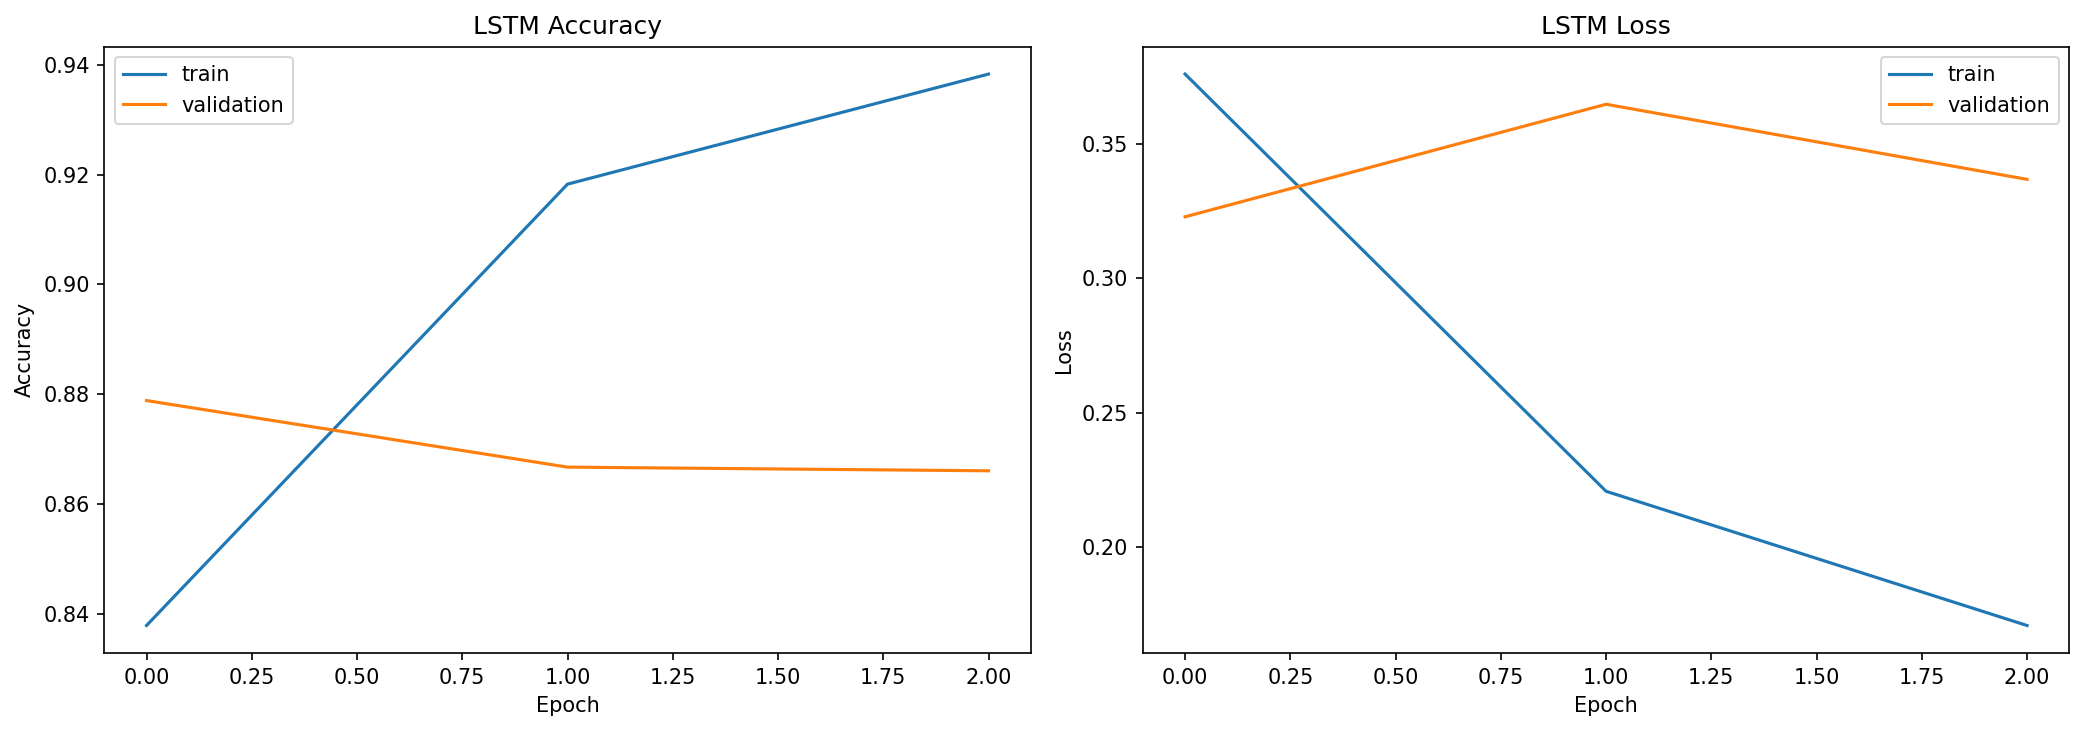
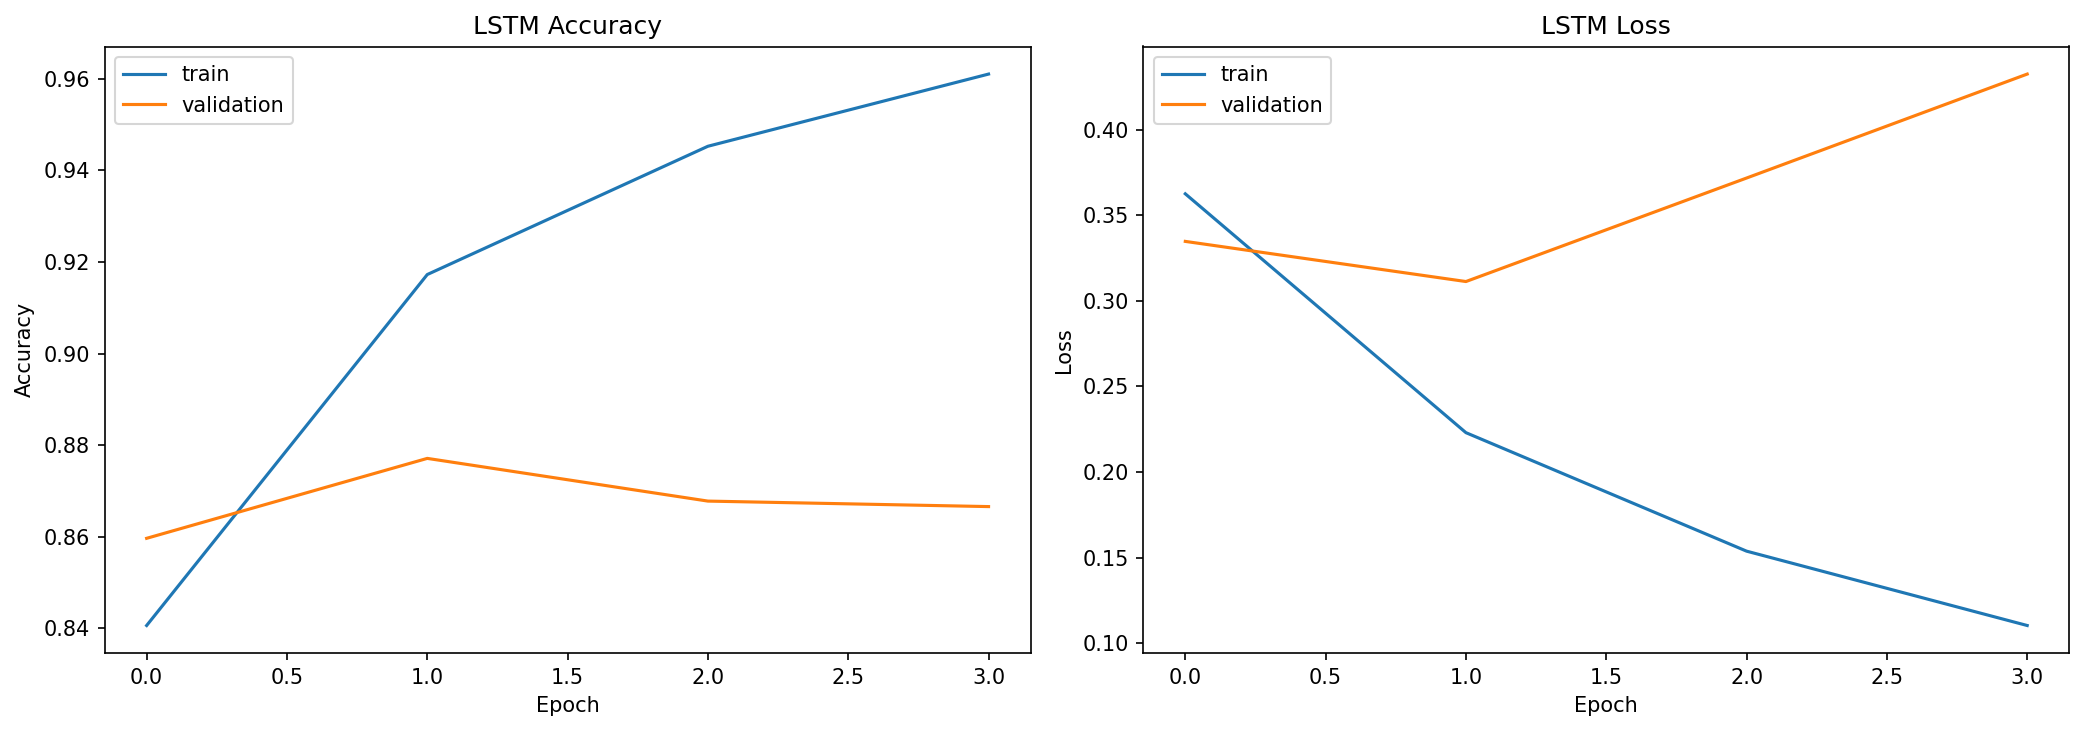
re-run and bug fix

diff --git a/src/dl_model.py b/src/dl_model.py
@@ -6,14 +6,25 @@ from typing import Dict, Iterable, Optional, Tuple
 import matplotlib.pyplot as plt
 import numpy as np
 import tensorflow as tf
+from keras import Sequential
+from keras.callbacks import EarlyStopping, ModelCheckpoint
+from keras.layers import Dense, Dropout, Embedding, Input, LSTM
+from keras.optimizers import Adam
 from sklearn.metrics import accuracy_score, f1_score, precision_score, recall_score
-from tensorflow.keras import Sequential
-from tensorflow.keras.callbacks import EarlyStopping, ModelCheckpoint
-from tensorflow.keras.layers import Dense, Dropout, Embedding, Input, LSTM
-from tensorflow.keras.optimizers import Adam
 
 
 MetricsResult = Tuple[Dict[str, float], np.ndarray, np.ndarray]
+
+
+def _to_numpy_1d(values: Iterable[int]) -> np.ndarray:
+    """Convert labels to a 1D numpy array without unnecessary list materialization."""
+    if isinstance(values, np.ndarray):
+        return values
+    if hasattr(values, "to_numpy"):
+        return np.asarray(values.to_numpy())
+    if hasattr(values, "__array__"):
+        return np.asarray(values)
+    return np.fromiter(values, dtype=np.int64)
 
 
 def build_lstm_model(
@@ -58,6 +69,9 @@ def train_lstm_model(
     verbose: int = 1,
 ) -> tf.keras.callbacks.History:
     """Train an LSTM model with early stopping and optional checkpointing."""
+    y_train_array = _to_numpy_1d(y_train)
+    y_val_array = _to_numpy_1d(y_val)
+
     callbacks = [
         EarlyStopping(
             monitor=monitor,
@@ -81,8 +95,8 @@ def train_lstm_model(
 
     history = model.fit(
         X_train,
-        np.asarray(list(y_train)),
-        validation_data=(X_val, np.asarray(list(y_val))),
+        y_train_array,
+        validation_data=(X_val, y_val_array),
         batch_size=batch_size,
         epochs=epochs,
         callbacks=callbacks,
@@ -98,7 +112,7 @@ def evaluate_lstm_model(
     threshold: float = 0.5,
 ) -> MetricsResult:
     """Evaluate an LSTM model and return metrics, labels, and probabilities."""
-    y_true = np.asarray(list(y_eval)).astype(int)
+    y_true = _to_numpy_1d(y_eval).astype(int)
     y_prob = model.predict(X_eval, verbose=0).reshape(-1)
     y_pred = (y_prob >= threshold).astype(int)
 

diff --git a/src/features.py b/src/features.py
@@ -1,12 +1,11 @@
 """Feature extraction utilities for classic and deep NLP models."""
 
-from typing import Iterable, Optional, Tuple, TypedDict, Union
+import importlib
+from typing import Any, Iterable, Optional, Tuple, TypedDict, Union
 
 import numpy as np
 from scipy.sparse import csr_matrix
 from sklearn.feature_extraction.text import CountVectorizer, TfidfVectorizer
-from tensorflow.keras.preprocessing.sequence import pad_sequences
-from tensorflow.keras.preprocessing.text import Tokenizer
 
 
 VectorizerType = Union[CountVectorizer, TfidfVectorizer]
@@ -27,7 +26,7 @@ class SequenceSplits(TypedDict, total=False):
     train: np.ndarray
     val: np.ndarray
     test: np.ndarray
-    tokenizer: Tokenizer
+    tokenizer: Any
     vocab_size: int
     max_sequence_length: int
 
@@ -106,6 +105,26 @@ def get_tokenized_padded_sequences(
 
     The tokenizer is fit only on the training split to avoid leakage.
     """
+    try:
+        try:
+            tokenizer_module = importlib.import_module("keras.preprocessing.text")
+            Tokenizer = getattr(tokenizer_module, "Tokenizer")
+        except Exception:
+            tokenizer_module = importlib.import_module("tensorflow.keras.preprocessing.text")
+            Tokenizer = getattr(tokenizer_module, "Tokenizer")
+
+        try:
+            utils_module = importlib.import_module("keras.utils")
+            pad_sequences = getattr(utils_module, "pad_sequences")
+        except Exception:
+            sequence_module = importlib.import_module("tensorflow.keras.preprocessing.sequence")
+            pad_sequences = getattr(sequence_module, "pad_sequences")
+    except Exception as exc:
+        raise ImportError(
+            "Deep-learning sequence features require keras. "
+            "Install keras (or tensorflow with keras support) to use this function."
+        ) from exc
+
     train_texts = list(train_texts)
     if val_texts is not None:
         val_texts = list(val_texts)
